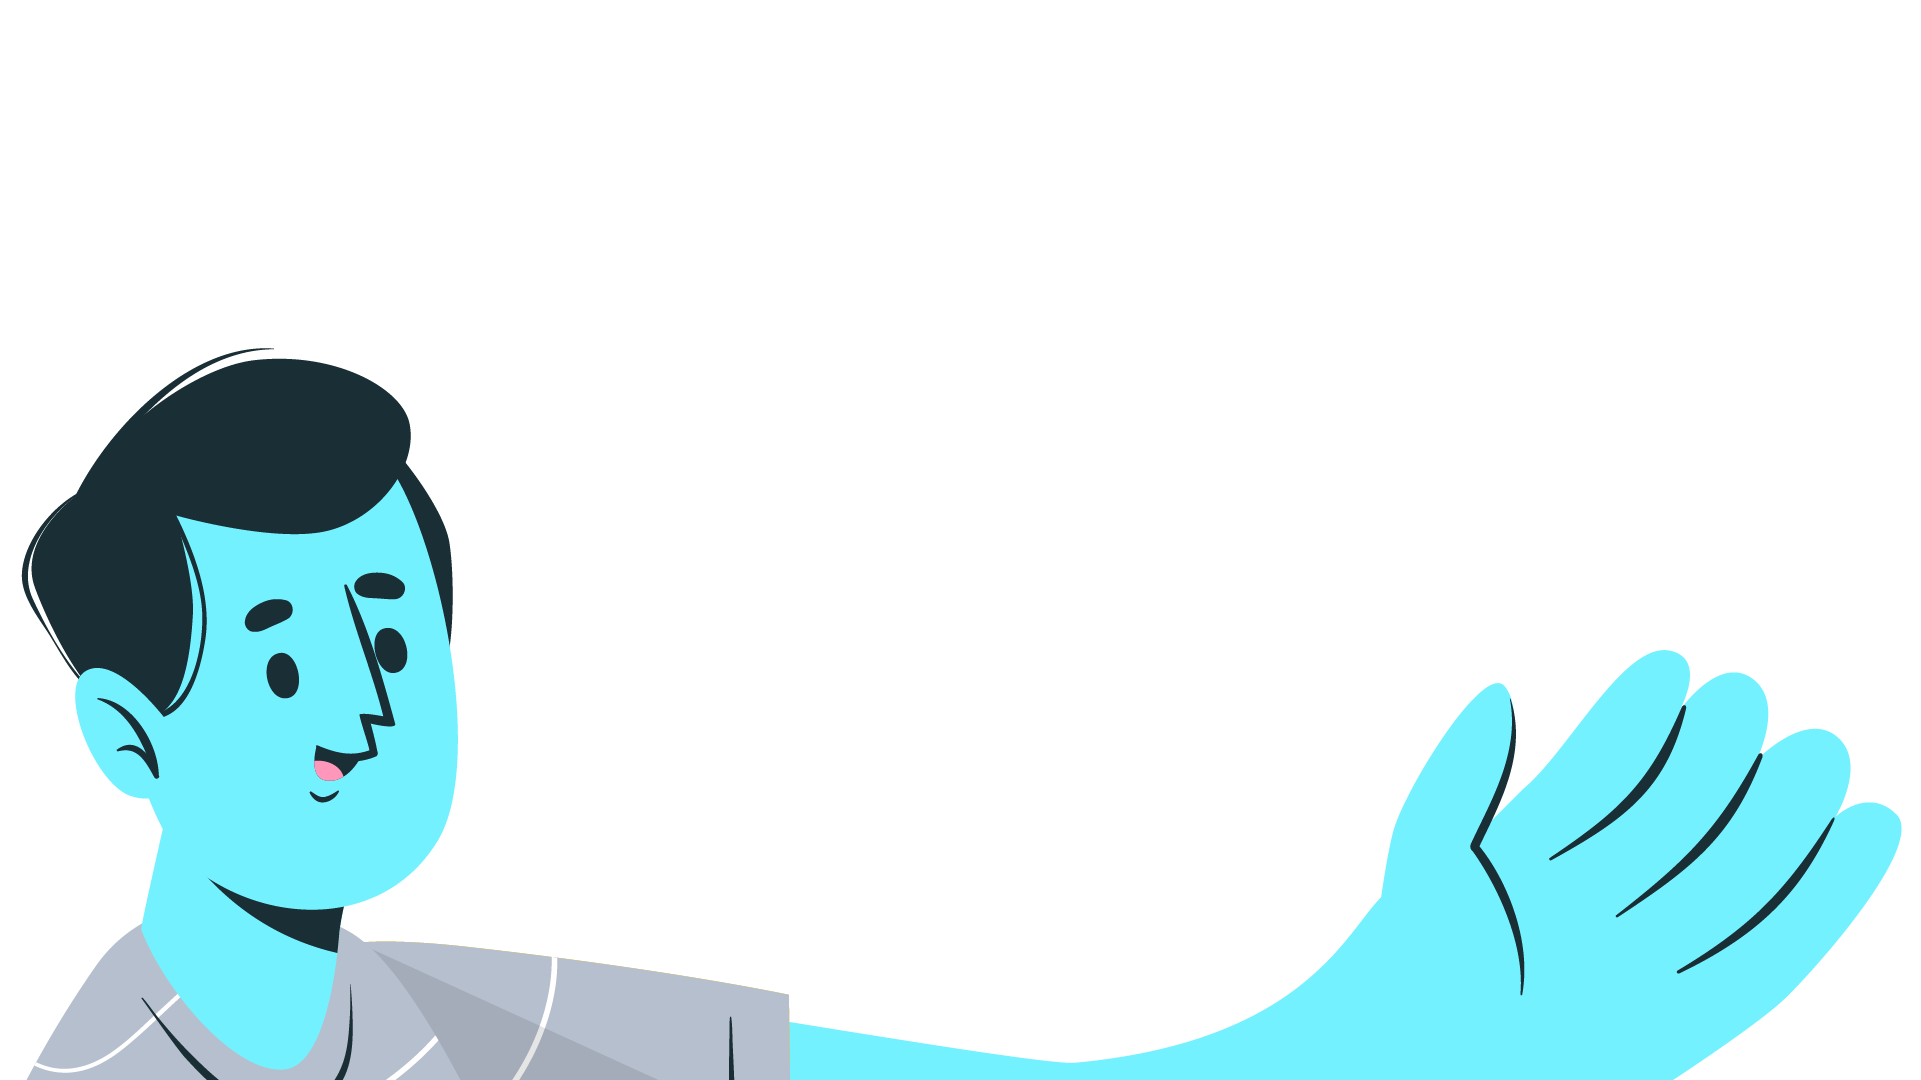
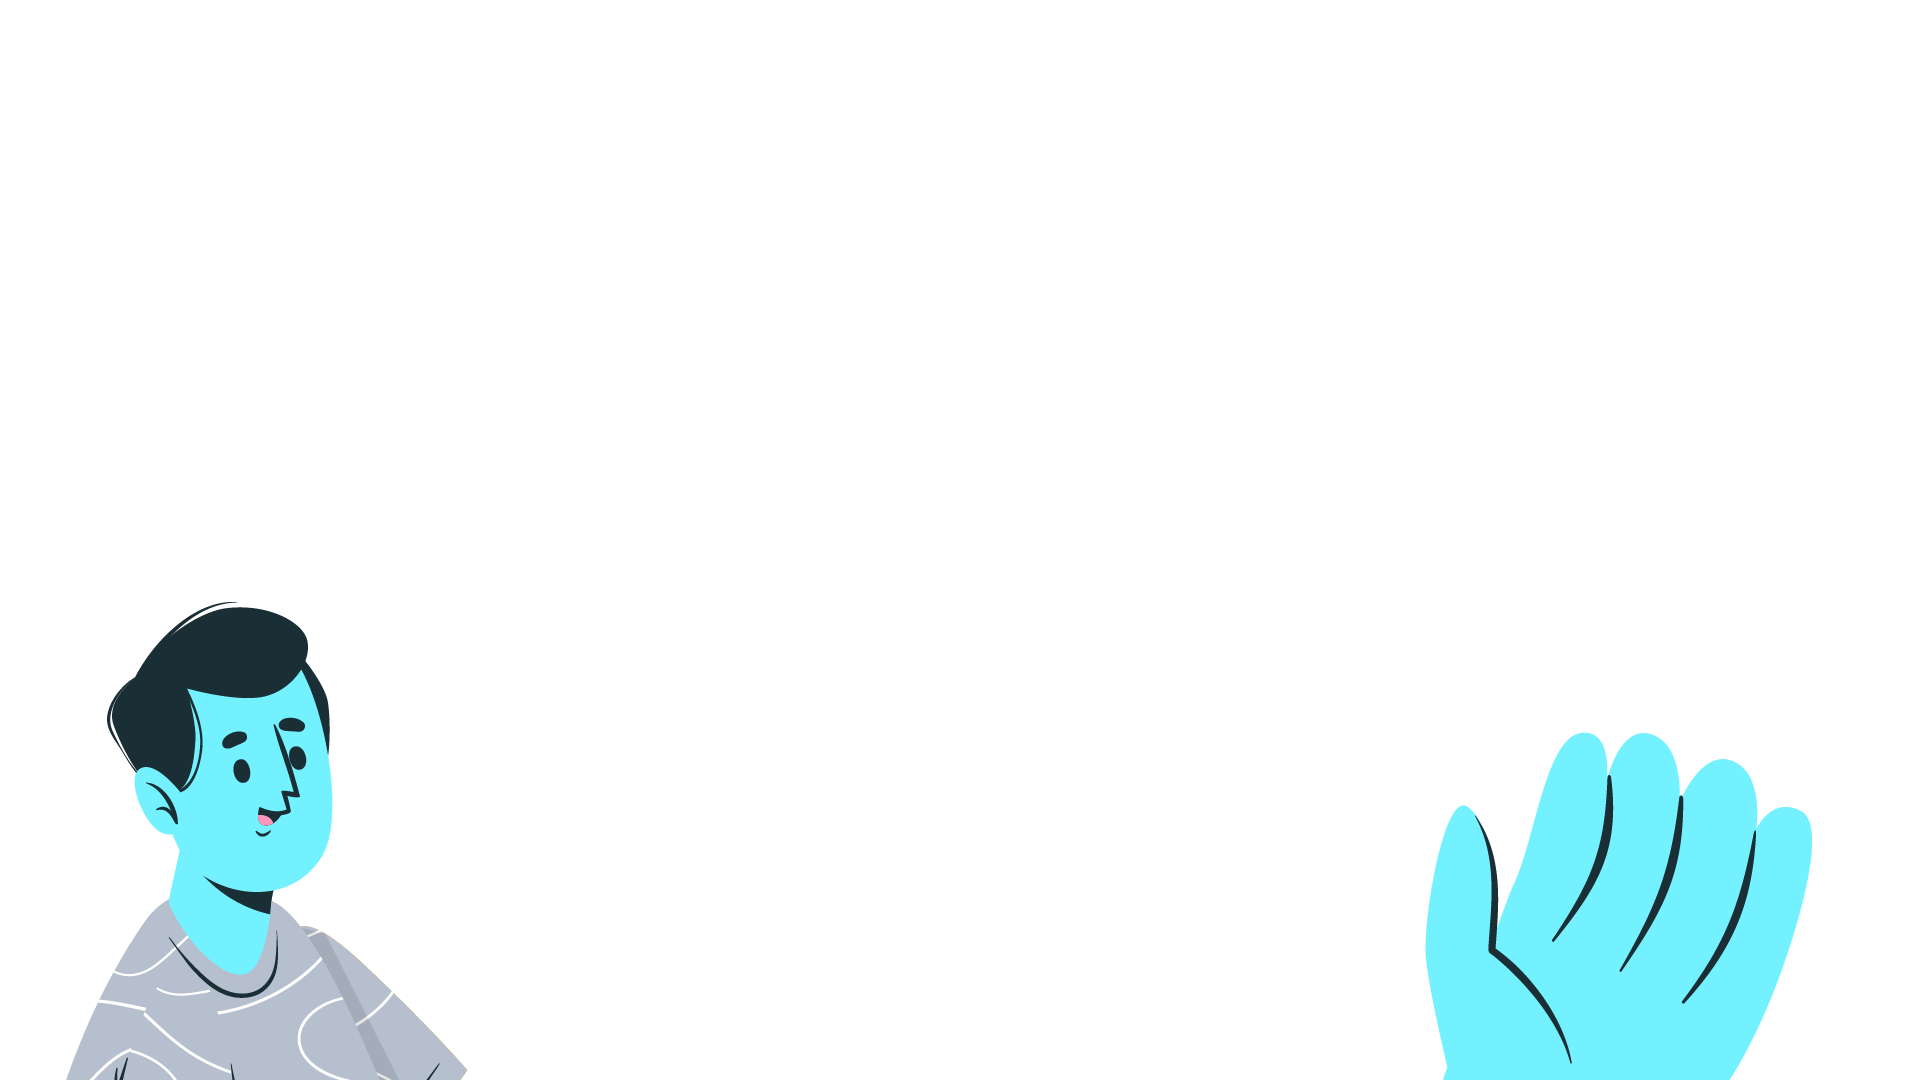
ajuste imagem conhecimento 2

Changed region(s): [[0.0, 0.3056, 0.9995, 1.0]]

diff --git a/02_tecnicas_de_criatividade/css/styles.css b/02_tecnicas_de_criatividade/css/styles.css
@@ -146,7 +146,7 @@ body{
     position: fixed;
     bottom: 0;
     opacity: 1;
-    max-height: 50%;
+    max-height: 100%;
     width: 100%;
     z-index: 2;
     pointer-events: none;
